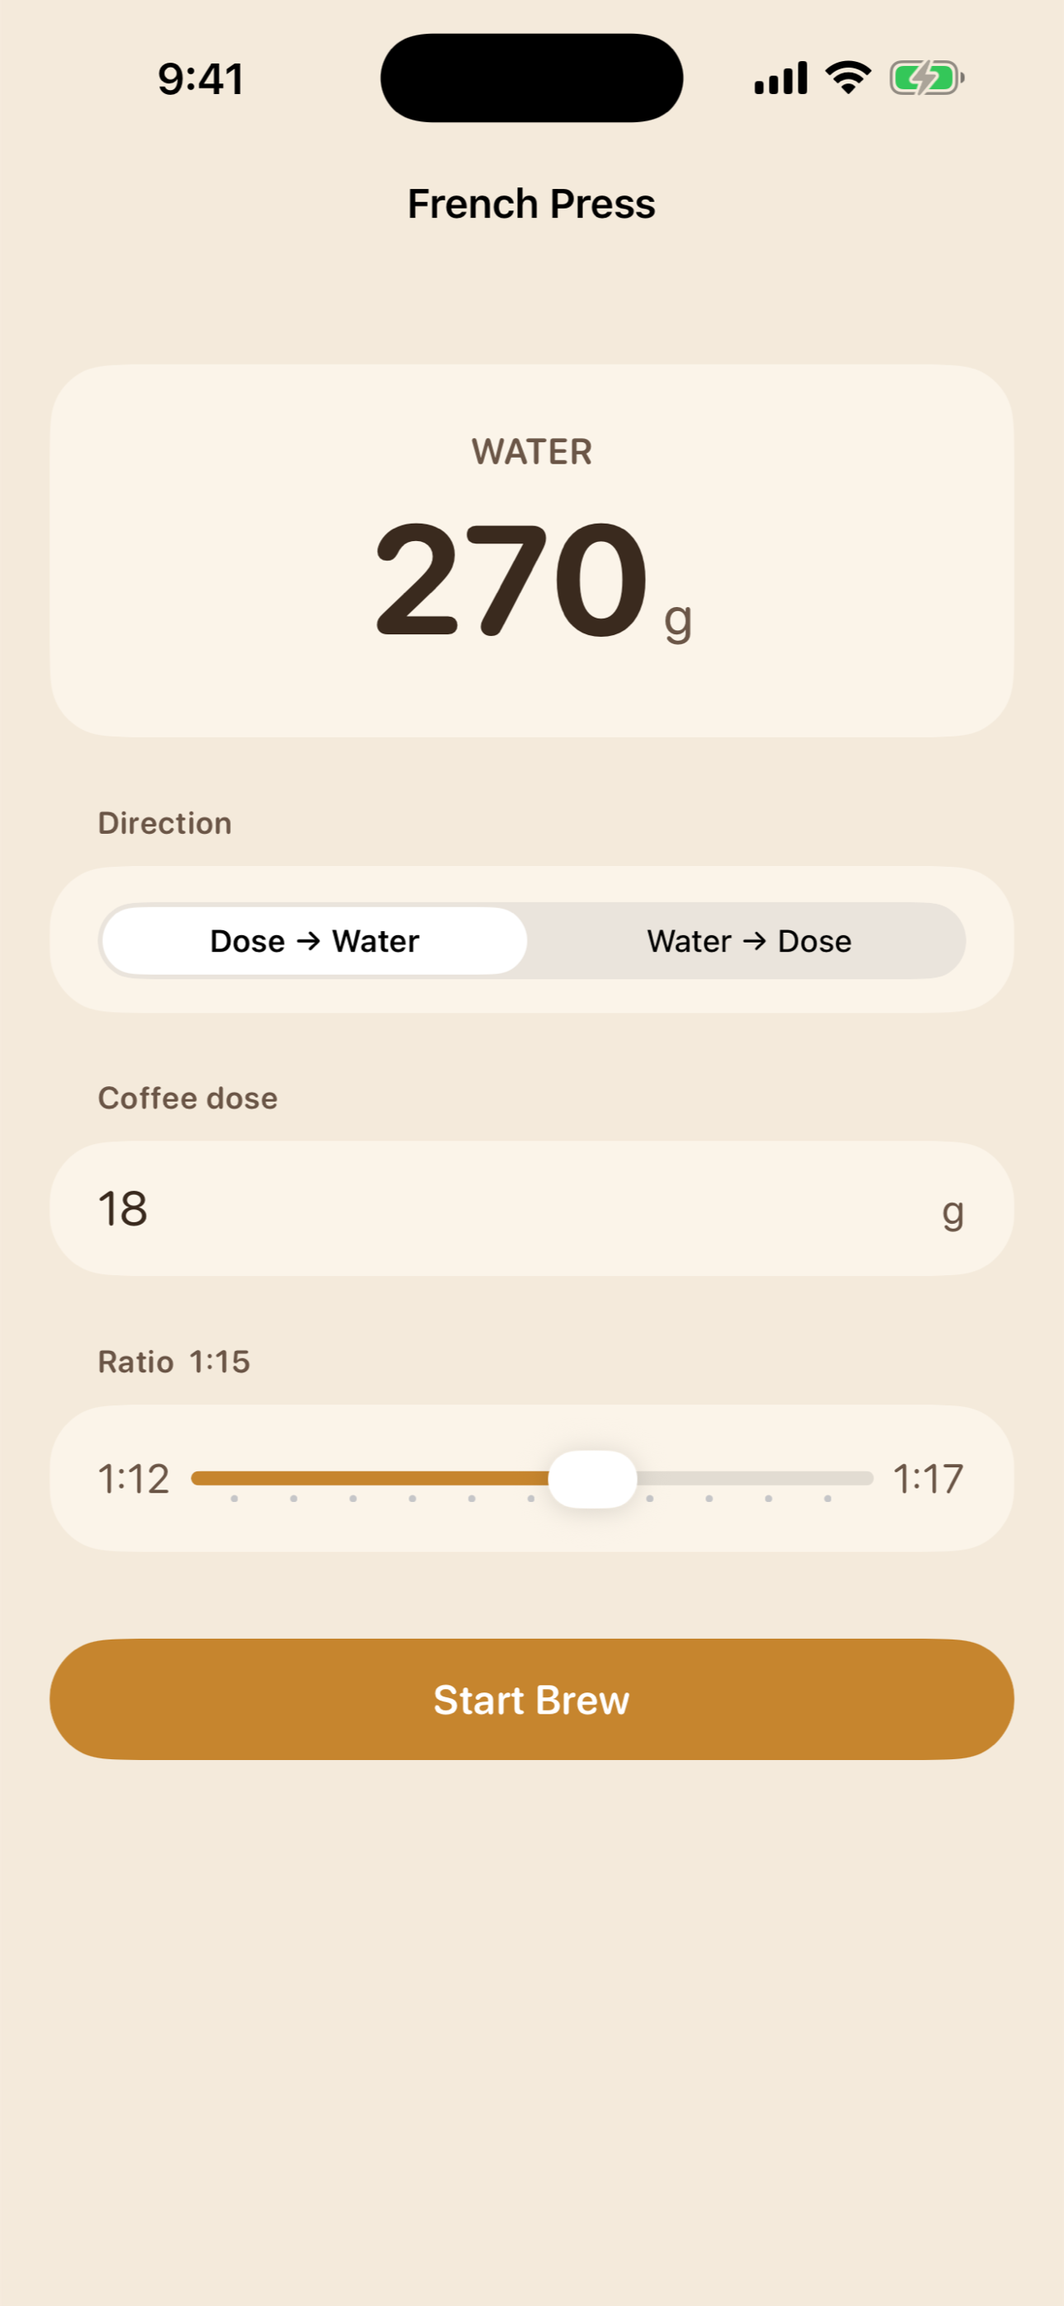
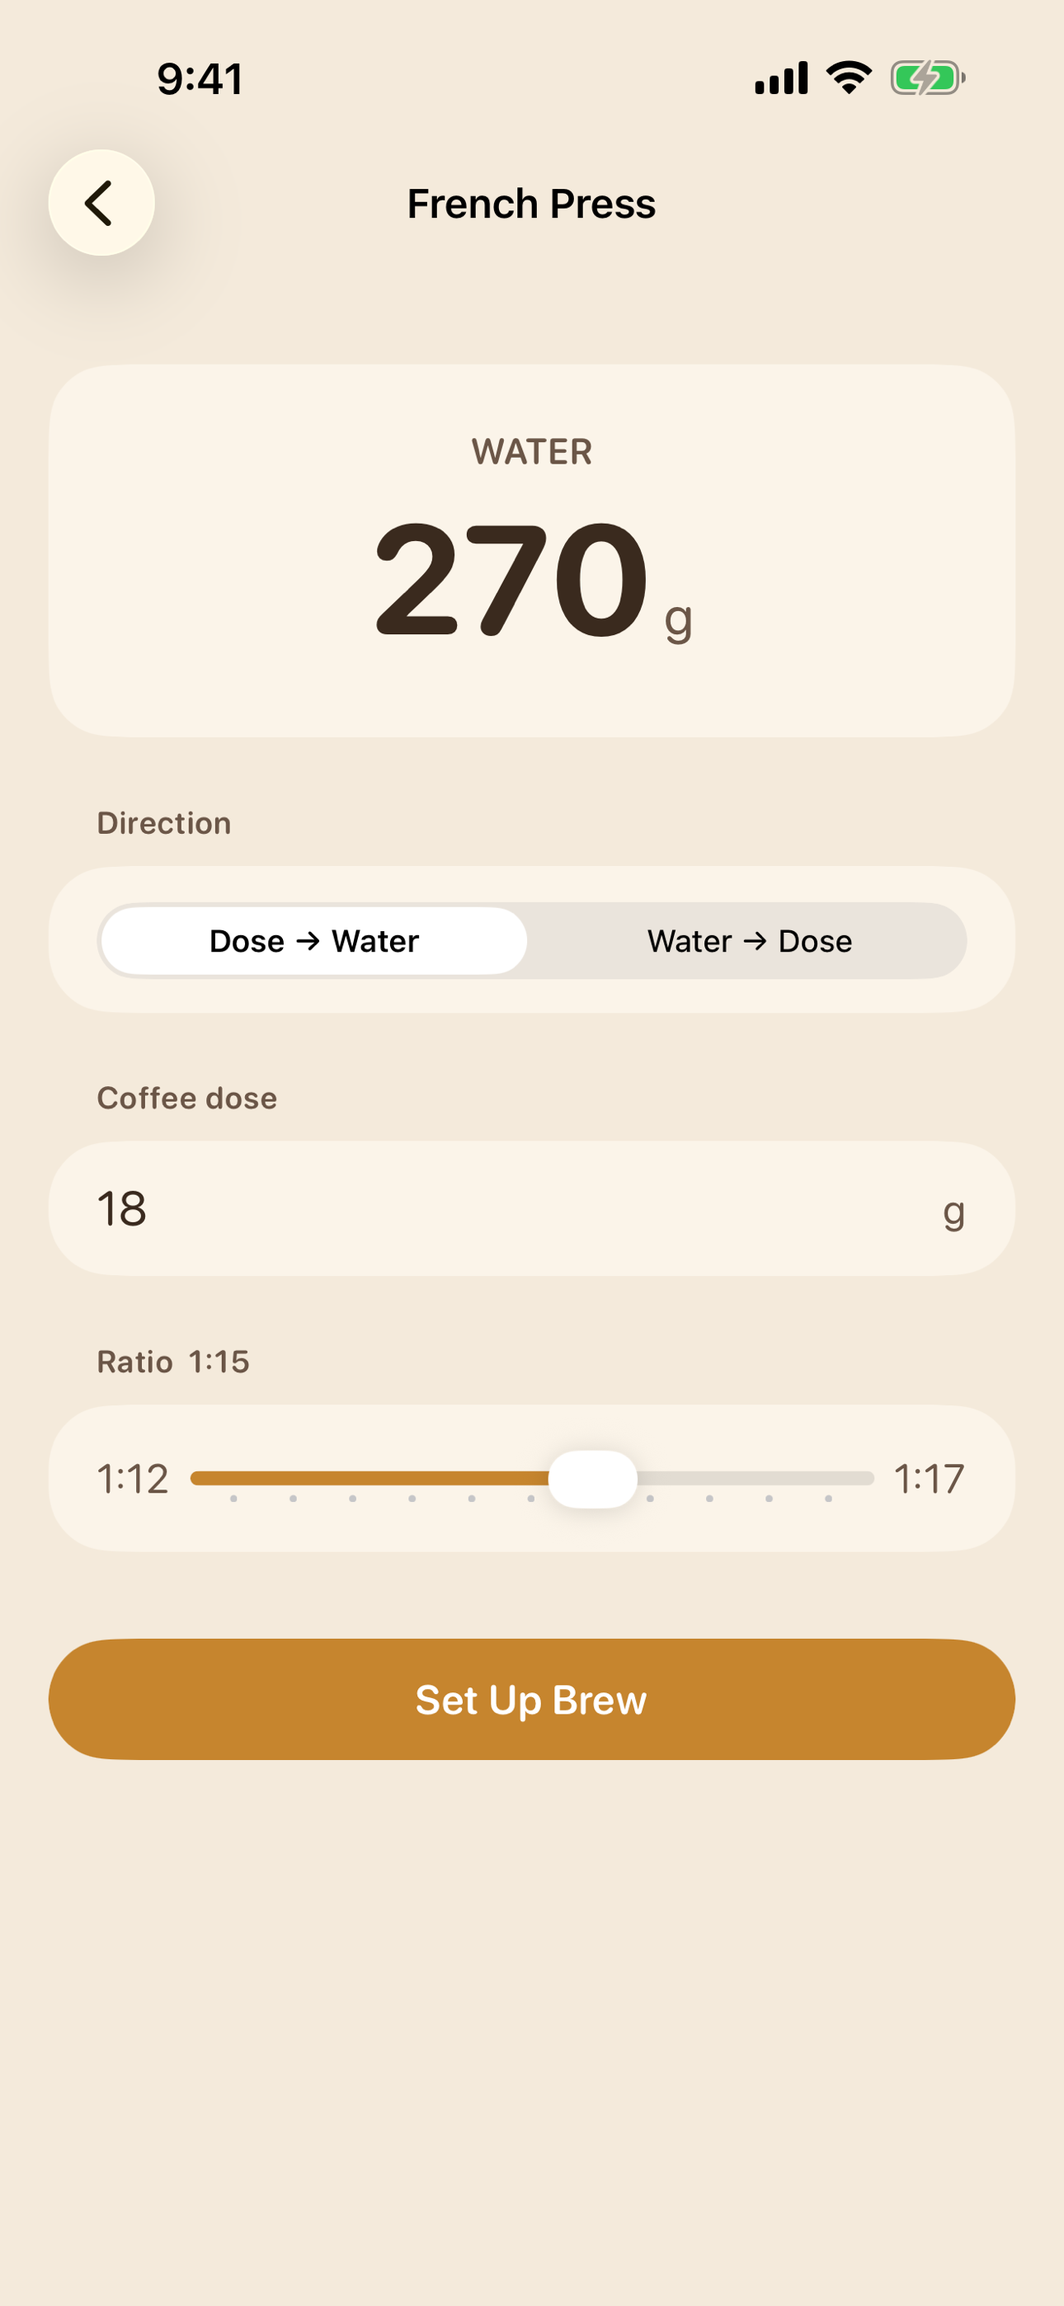
1.1: recapture the two stale App Store screenshots, script the capture
The runbook said only the guided-brew shot was invalidated by 1.1. That was
wrong: 1.1 also renamed the calculator's call to action from "Start Brew" to
"Set Up Brew" (BrewSessionView.startTitle), so 02-calculator.png was
advertising a button the shipped build no longer has — the same rejection
risk, in a shot that's easier to overlook because the change is one word.

Both are recaptured at 1290×2796. 05-brew-log.png is left alone deliberately:
1.1 added an "actual · planned" line to each log row, but those fields are
nil-defaulted for backward compatibility, so the existing shot is still a
truthful rendering of pre-1.1 records. Retaking it is marketing, not
compliance — noted in the runbook as the owner's call.

Capture is now scripted. The 1.0 set came from a temporary CG_SHOT switch in
the *app* target that was added for a capture and deleted afterwards;
Releases/screenshots/capture.sh drives the real UI from the UI-test target
instead, so capture-only code can never reach a shipping build. The tests
assert the two 1.1 strings, so the suite fails if the UI drifts from the
listing again.

Also refreshes §1 pre-flight, which still gated on "PR #2 merged" three PRs
later, and ticks the boxes verified on 2026-08-03: versions 1.1/2, Core 49/49,
app suite green, Release build warning-free.

diff --git a/CoffeeGrams/CoffeeGramsUITests/ScreenshotCaptureTests.swift b/CoffeeGrams/CoffeeGramsUITests/ScreenshotCaptureTests.swift
@@ -1,0 +1,90 @@
+//
+//  ScreenshotCaptureTests.swift
+//  CoffeeGramsUITests
+//
+//  The App Store screenshot harness.
+//
+//  Replaces the temporary in-app `CG_SHOT` switch used for the 1.0 set (see
+//  Releases/screenshots/README.md), which had to be added to the *app* target
+//  before a capture and deleted afterwards. Driving the real UI from the UI-test
+//  target instead means no capture-only code ever exists in the shipping binary,
+//  and the shots are of the same build a reviewer will run.
+//
+//  They run as part of the normal suite rather than behind an opt-in flag,
+//  because their assertions are worth having on every run: each one pins a UI
+//  string that 1.1 changed and that a stale App Store screenshot would then
+//  misrepresent ("Set Up Brew", the Pause/End Brew pair). The screenshots are a
+//  by-product — attachments in the result bundle, which cost nothing to leave
+//  there.
+//
+//  To actually produce upload-ready files, run Releases/screenshots/capture.sh,
+//  which pins the status bar to 9:41, runs just these tests, pulls the frames
+//  out of the result bundle and fits them to the 1290×2796 upload size.
+//
+
+import XCTest
+
+@MainActor
+final class ScreenshotCaptureTests: XCTestCase {
+
+    private var app: XCUIApplication!
+
+    override func setUp() async throws {
+        continueAfterFailure = false
+        app = XCUIApplication()
+        app.launch()
+    }
+
+    // MARK: 02 — Calculator
+
+    /// French Press at its defaults: 18 g → 270 g at 1:15, and the 1.1 "Set Up
+    /// Brew" call to action that replaced 1.0's "Start Brew".
+    func testCaptureCalculator() throws {
+        app.buttons["method_french_press"].tap()
+
+        let cta = app.buttons["calculatorStartBrew"]
+        XCTAssertTrue(cta.waitForExistence(timeout: 10), "Calculator should be up")
+        XCTAssertEqual(cta.label, "Set Up Brew",
+                       "1.1 renamed this button; the screenshot must show the new label")
+
+        capture(named: "02-calculator")
+    }
+
+    // MARK: 03 — Guided timer
+
+    /// A brew mid-flight, which is where every 1.1 timer change is visible: the
+    /// TOTAL count-up, and the Pause/End Brew control row that replaced
+    /// Pause/Skip.
+    func testCaptureGuidedTimer() throws {
+        app.buttons["method_french_press"].tap()
+
+        let cta = app.buttons["calculatorStartBrew"]
+        XCTAssertTrue(cta.waitForExistence(timeout: 10))
+        cta.tap()
+
+        let start = app.buttons["Start Timer"]
+        XCTAssertTrue(start.waitForExistence(timeout: 10))
+        start.tap()
+
+        // Let the clock run so TOTAL reads a non-zero time — a frozen 0:00 would
+        // undersell the feature the shot exists to show.
+        let pause = app.buttons["Pause"]
+        XCTAssertTrue(pause.waitForExistence(timeout: 5), "A running brew should offer Pause")
+        XCTAssertTrue(app.buttons["End Brew"].exists, "1.1 pairs Pause with End Brew")
+        Thread.sleep(forTimeInterval: 8)
+
+        capture(named: "03-guided-timer")
+    }
+
+    // MARK: Helpers
+
+    /// Full-device screenshot at native resolution, kept in the result bundle
+    /// even though the test passes (the default discards attachments on success).
+    private func capture(named name: String) {
+        let shot = XCUIScreen.main.screenshot()
+        let attachment = XCTAttachment(screenshot: shot)
+        attachment.name = name
+        attachment.lifetime = .keepAlways
+        add(attachment)
+    }
+}

diff --git a/Releases/submission_1.1.md b/Releases/submission_1.1.md
@@ -22,7 +22,7 @@ Three things in particular you do **not** need to touch:
 |---|---|
 | §5 of the 1.0 runbook (create the IAP) | `com.jrlabapps.coffeegrams.pro` already exists and is approved. A *first* IAP must ride along with a version; a subsequent update must not re-submit it. |
 | §6 (Category, Price, App Privacy, Age Rating, DSA trader) | App-level settings persist across versions. 1.1 adds no SDK, no tracking, and no new data collection, so **"Data Not Collected" still holds** — do not re-answer the privacy questionnaire. |
-| Screenshots — **most of them** | 1.1 is iPhone-only and portrait, so the existing 1290×2796 set still matches. **One exception: the guided-brew shot must be retaken — see §3.** |
+| Screenshots — **the sizing and the set** | 1.1 is iPhone-only and portrait, so the 1290×2796 6.9" set is still the right shape and count. **But two shots must be retaken and a third is worth retaking — see §3.** |
 
 ---
 
@@ -30,23 +30,36 @@ Three things in particular you do **not** need to touch:
 
 1. Merge to `main` with Qodo clean, confirm the version numbers
 2. Archive + upload the build
-3. Version page (What's New, build, **new guided-brew screenshot**, manual release)
+3. Version page (What's New, build, **refreshed screenshots**, manual release)
 4. Review Submission — **one item this time**, not two
 
 ---
 
 ## 1. Pre-flight **[you]**
 
-- [ ] **PR #2 merged to `main`** with Qodo findings at zero.
+- [x] **All 1.1 PRs merged to `main`** — #2 (the fixes), #3 (model guidance) and
+      #4 (runbook hardening). Nothing outstanding in the repo. *(Qodo findings at
+      zero except rule 2205425, a known false positive — it infers the runbook is
+      missing from `release_1.1.md`'s header instead of checking the file tree, so
+      no repo edit can clear it. Dismiss it; fix it cloud-side before 1.2.)*
 - [ ] **`git pull` on `main`** so you archive the merged code, not the branch.
-- [ ] **Version numbers** — confirm in Xcode (target → General) or:
+      Re-tick this one at archive time — the screenshot refresh lands after the
+      checks below.
+- [x] **Version numbers** — verified 2026-08-03: `MARKETING_VERSION` **1.1**,
+      `CURRENT_PROJECT_VERSION` **2**, consistent across all build configs.
       ```sh
       grep -m1 MARKETING_VERSION CoffeeGrams/CoffeeGrams.xcodeproj/project.pbxproj      # 1.1
       grep -m1 CURRENT_PROJECT_VERSION CoffeeGrams/CoffeeGrams.xcodeproj/project.pbxproj # 2
       ```
-      **Build number must be higher than any build already uploaded** — App Store
-      Connect rejects a duplicate at upload, after the whole archive.
-- [ ] **All suites green + warning-free**, from the repo root:
+- [ ] **Build number must be higher than any build already uploaded** — App Store
+      Connect rejects a duplicate at upload, *after* the whole archive. This one
+      can't be verified from the repo: check TestFlight before archiving, and bump
+      `CURRENT_PROJECT_VERSION` to 3 if build 2 was ever uploaded.
+- [x] **All suites green + warning-free** — verified 2026-08-03: Core **49/49** in
+      4 suites, app `** TEST SUCCEEDED **`, Release build clean. (The only build
+      output is three `appintentsmetadataprocessor` "no AppIntents.framework"
+      notes — a toolchain info message, not a compiler warning.) Re-run after the
+      screenshot branch merges:
       ```sh
       (cd CoffeeGramsCore && swift test)
       (cd CoffeeGrams && xcodebuild test -scheme CoffeeGrams \
@@ -75,75 +88,67 @@ Same as 1.0 §4 — signing, certificate, and App ID are all already in place.
 - [ ] **What's New in This Version** — copy from the block below. Required for an
       update; this is the one field 1.0 didn't have.
 - [ ] **Build** — select the build you just uploaded.
-- [ ] ⚠ **Screenshots — the guided-brew shot MUST be replaced. This is not
-      optional and not a judgement call.** 1.1 redesigned that screen, so the
-      one currently on the listing shows a UI the app no longer has:
+- [x] ⚠ **Screenshots — two MUST be replaced. Not optional, not a judgement
+      call.** 1.1 changed the UI in both, so the shots on the listing show
+      controls the app no longer has. **Both were recaptured on 2026-08-03** and
+      are committed at 1290×2796; they only need uploading.
 
-      | On the current screenshot (1.0) | In the shipped 1.1 build |
-      |---|---|
-      | No total-elapsed readout | A "TOTAL m:ss" count-up under the step timer |
-      | Countdown only | The final step counts **up** as `+m:ss` |
-      | Pause / Skip buttons | Pause/Resume ⇄ End Brew, with "Skip step" demoted to tertiary |
+      | Shot | On the 1.0 screenshot | In the shipped 1.1 build |
+      |---|---|---|
+      | `02-calculator.png` | Call to action reads **"Start Brew"** | Reads **"Set Up Brew"** (`BrewSessionView.startTitle`) |
+      | `03-guided-timer.png` | No total-elapsed readout | A "TOTAL m:ss" count-up under the step timer |
+      | `03-guided-timer.png` | **Pause / Skip** buttons | **Pause ⇄ End Brew**, with "Skip step" demoted to tertiary |
 
       A listing screenshot that doesn't match the built app is a documented
-      rejection reason, and it's the one asset 1.1 genuinely invalidated.
+      rejection reason. The calculator one is the easier to miss of the two: the
+      change is a single word on one button, but it's the button the whole
+      screen exists to lead to.
 
-      **Capture size — expect a two-step, same as 1.0.** The upload size is
-      **1290×2796** (canonical 6.9"), but current Pro Max simulators capture
-      *larger* — iPhone 17 Pro Max gives 1320×2868 — and some ASC uploaders
-      reject the bigger file. So you capture natively and **fit down** to
-      1290×2796, exactly how the existing set was made, which also keeps the new
-      shot dimensionally identical to the other four. Canonical sizing guidance:
-      [`screenshots/README.md`](screenshots/README.md).
+      **Both new shots include a back chevron** the 1.0 set didn't have, because
+      they're captured by walking the real app from the method list rather than
+      deep-linking into the screen. That's what a user actually sees, and Apple
+      accepts nav chrome in screenshots.
 
-      Run from the **repo root**. Per our standards the simulator is discovered,
-      never hardcoded. It resolves to a **UDID**, not a name — names repeat
-      across installed runtimes, so a name alone can't say which device you
-      mean — and the selection is done in `python3` (ships with Xcode) rather
-      than `sort -V`, which isn't dependable on a stock macOS `sort`:
+      **Recapturing, if you ever need to redo them.** One command from the repo
+      root — it discovers the simulator, pins the status bar to 9:41, drives the
+      app, and writes upload-ready files straight over the tracked assets:
 
       ```sh
-      SIM=$(xcrun simctl list devices available --json | python3 -c '
-      import json, re, sys
-      best = None
-      for runtime, devices in json.load(sys.stdin)["devices"].items():
-          rm = re.search(r"iOS-([\d-]+)", runtime)          # iOS runtimes only
-          if not rm:
-              continue
-          ver = tuple(int(n) for n in rm.group(1).split("-"))  # numeric, not string
-          for dev in devices:
-              dm = re.fullmatch(r"iPhone (\d+) Pro Max", dev["name"])
-              if dm:
-                  key = (int(dm.group(1)), ver)
-                  if best is None or key > best[0]:
-                      best = (key, dev)
-      print(best[1]["udid"] if best else "", end="")')
-
-      SHOT=Releases/screenshots/03-guided-timer.png
-      echo "capturing on ${SIM:?no Pro Max simulator installed} → $SHOT"
-
-      xcrun simctl boot "$SIM" 2>/dev/null; open -a Simulator   # if not already up
-
-      # 1. Capture at the device's native size, straight over the tracked file
-      xcrun simctl io "$SIM" screenshot "$SHOT"
-
-      # 2. Fit to the upload size
-      sips -z 2796 1290 "$SHOT"
-
-      # 3. Verify before uploading — expect 1290 × 2796
-      sips -g pixelWidth -g pixelHeight "$SHOT"
+      ./Releases/screenshots/capture.sh                  # both
+      ./Releases/screenshots/capture.sh 03-guided-timer  # just one
       ```
 
-      Writing straight to `$SHOT` overwrites the tracked asset, so there's no
-      way to produce a correct image and still upload the stale one by mistake.
+      How it works, and why it isn't the 1.0 method: the 1.0 set came from a
+      temporary `CG_SHOT` switch **inside the app target** that had to be added
+      before a capture and deleted afterwards. This drives the real UI from
+      `CoffeeGramsUITests/ScreenshotCaptureTests.swift` instead, so no
+      capture-only code ever exists in the shipping binary and the shots are of
+      the build a reviewer will run. Those tests also assert the two 1.1 strings
+      ("Set Up Brew", the Pause/End Brew pair), so the suite now fails if the UI
+      drifts from the screenshots again.
 
-      **To reach the screen:** open **French Press** — the free method, so no
-      purchase is needed — then **Set Up Brew → Start Timer** and let it run to
-      a step showing the new controls. Match the framing of the current
-      `03-guided-timer.png` so the set stays visually consistent.
+      **Capture size — still a two-step, same as 1.0.** The upload size is
+      **1290×2796** (canonical 6.9"), but current Pro Max simulators capture
+      *larger* — iPhone 17 Pro Max gives 1320×2868 — and some ASC uploaders
+      reject the bigger file, so the script fits every frame down and verifies
+      the result before it exits. Canonical sizing guidance:
+      [`screenshots/README.md`](screenshots/README.md).
 
-- [ ] **Remaining screenshots** — leave as-is. 1.1 stayed iPhone-only and
-      portrait, so the rest of the set is still accurate. Don't redo work.
+      Per our standards the simulator is discovered, never hardcoded, and
+      resolves to a **UDID** rather than a name — names repeat across installed
+      runtimes. The version sort is done in `python3` (ships with Xcode) because
+      `sort -V` isn't dependable on a stock macOS `sort`.
+
+- [ ] **`05-brew-log.png` — optional, your call.** 1.1 added an "`m:ss` actual ·
+      `m:ss` planned" line to each log row (`LogView.swift`), which the current
+      shot predates. It is **not** inaccurate: those fields are nil-defaulted for
+      backward compatibility, so pre-1.1 records really do render without that
+      line in the shipped 1.1 build. Retaking it would showcase a headline
+      What's New item, so it's a marketing call, not a compliance one — left
+      as-is for now. It isn't scripted yet either: it needs a populated log,
+      which `ScreenshotCaptureTests` doesn't set up.
+- [ ] **`01-home.png` and `04-paywall.png`** — leave as-is. 1.1 stayed
+      iPhone-only and portrait and changed neither screen. Don't redo work.
 - [ ] **Description / keywords / promotional text** — unchanged from 1.0 unless
       you want to work the timer improvements into the description.
 - [ ] **Version Release** → **Manually release this version**.
@@ -196,8 +201,9 @@ Fixes and a better brew timer.
 
 ## Pre-flight reminders
 
-- **Retake the guided-brew screenshot.** The listing's current one shows the 1.0
-  timer, which 1.1 replaced. Easiest step to skip, and a rejection reason.
+- **Upload the two refreshed screenshots** (`02-calculator`, `03-guided-timer`).
+  They're recaptured and committed; the remaining risk is uploading the version
+  page without swapping them. Easiest step to skip, and a rejection reason.
 - **Archive from `main` after the merge**, not from the release branch.
 - **Bump the build number** if you ever upload a second 1.1 build — ASC rejects duplicates.
 - **One item in the Review Submission**, not two.

diff --git a/Releases/screenshots/README.md b/Releases/screenshots/README.md
@@ -1,4 +1,4 @@
-# App Store screenshots — v1.0
+# App Store screenshots — v1.1
 
 Ready to upload to App Store Connect at **1290 × 2796** (the canonical 6.9"
 display size — iPhone 16 Pro Max) with a clean 9:41 status bar. (Captured at
@@ -8,8 +8,8 @@ uploaders reject the newer 1320 × 2868.)
 | # | File | Screen |
 |---|------|--------|
 | 1 | `01-home.png` | Home — branded logo lockup + method list with Pro locks |
-| 2 | `02-calculator.png` | Calculator — French Press, dose → water readout |
-| 3 | `03-guided-timer.png` | Guided brew — running countdown with step list |
+| 2 | `02-calculator.png` | Calculator — French Press, dose → water readout *(recaptured for 1.1)* |
+| 3 | `03-guided-timer.png` | Guided brew — running countdown, TOTAL count-up, step list *(recaptured for 1.1)* |
 | 4 | `04-paywall.png` | CoffeeGrams Pro — "Unlock Everything · $4.99" |
 | 5 | `05-brew-log.png` | Brew log — rated brews with notes |
 
@@ -18,7 +18,25 @@ uploaders reject the newer 1320 × 2868.)
 **Note:** these are raw device frames (no marketing text overlays), which Apple
 accepts. Screenshot #4 (paywall) also works as the review screenshot for the IAP.
 
-*Regenerating:* these were produced by a temporary in-app harness (a `CG_SHOT`
-env switch) that was removed after capture. To recreate, re-add the harness,
-build for the 6.9" sim, and run `simctl launch` with `SIMCTL_CHILD_CG_SHOT` set
-to `home`/`calc`/`guided`/`paywall`/`log`.
+## Regenerating
+
+```sh
+./capture.sh                  # from anywhere; both scripted shots
+./capture.sh 03-guided-timer  # just one
+```
+
+`capture.sh` discovers the newest installed iPhone Pro Max simulator by UDID,
+pins the status bar to 9:41, drives the real app via
+`CoffeeGramsUITests/ScreenshotCaptureTests.swift`, pulls the frames out of the
+result bundle, fits them to 1290×2796 and writes them straight over the tracked
+files here.
+
+**Currently scripted:** `02-calculator`, `03-guided-timer`.
+**Still manual:** `01-home`, `04-paywall`, `05-brew-log` — `05` needs a
+populated log and `04` a purchase sheet, neither of which the UI tests set up
+yet. Add a test to `ScreenshotCaptureTests` when one of them next needs a
+refresh.
+
+*History:* the 1.0 set came from a temporary `CG_SHOT` switch inside the **app**
+target that was added for a capture and deleted afterwards. That approach is
+retired — capture-only code should never be able to reach a shipping build.
